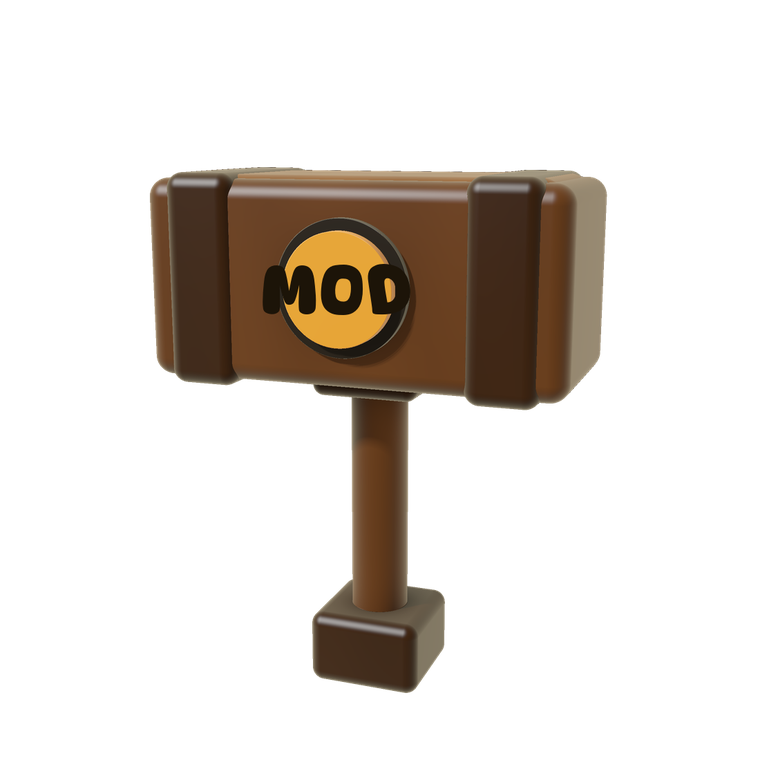
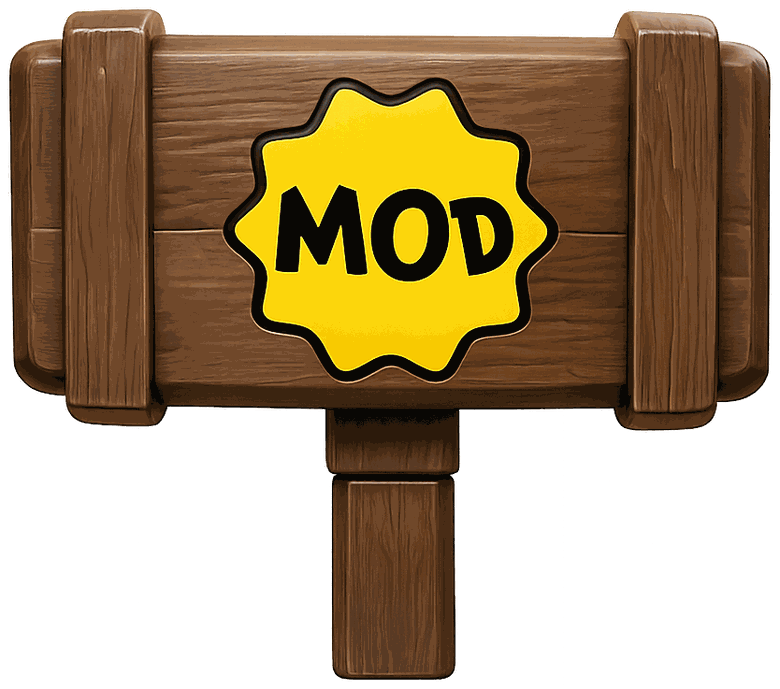
Use the supplied mallet artwork on the moderator page
Swaps in the provided image in place of the rendered one. The filenames
on disk confirm these were generated for this purpose rather than taken
from the site that inspired them, which was the only reason to hesitate.

Trimmed on a thresholded alpha rather than the raw one: getbbox counts
pixels with alpha as low as 1, so the untrimmed box was nearly the whole
file and left the mallet floating small inside a large empty frame.
Quantised with FASTOCTREE, the one method that keeps an alpha channel,
taking it from 564KB to 76KB with no visible change.

diff --git a/moderator/index.html b/moderator/index.html
@@ -140,7 +140,7 @@
       </div>
 
       <div class="mallet">
-        <img src="/billy-mod-mallet.png" width="760" height="760"
+        <img src="/billy-mod-mallet.png" width="780" height="689"
              alt="A wooden mallet with a MOD badge" class="mallet-img"/>
       </div>
     </div>
